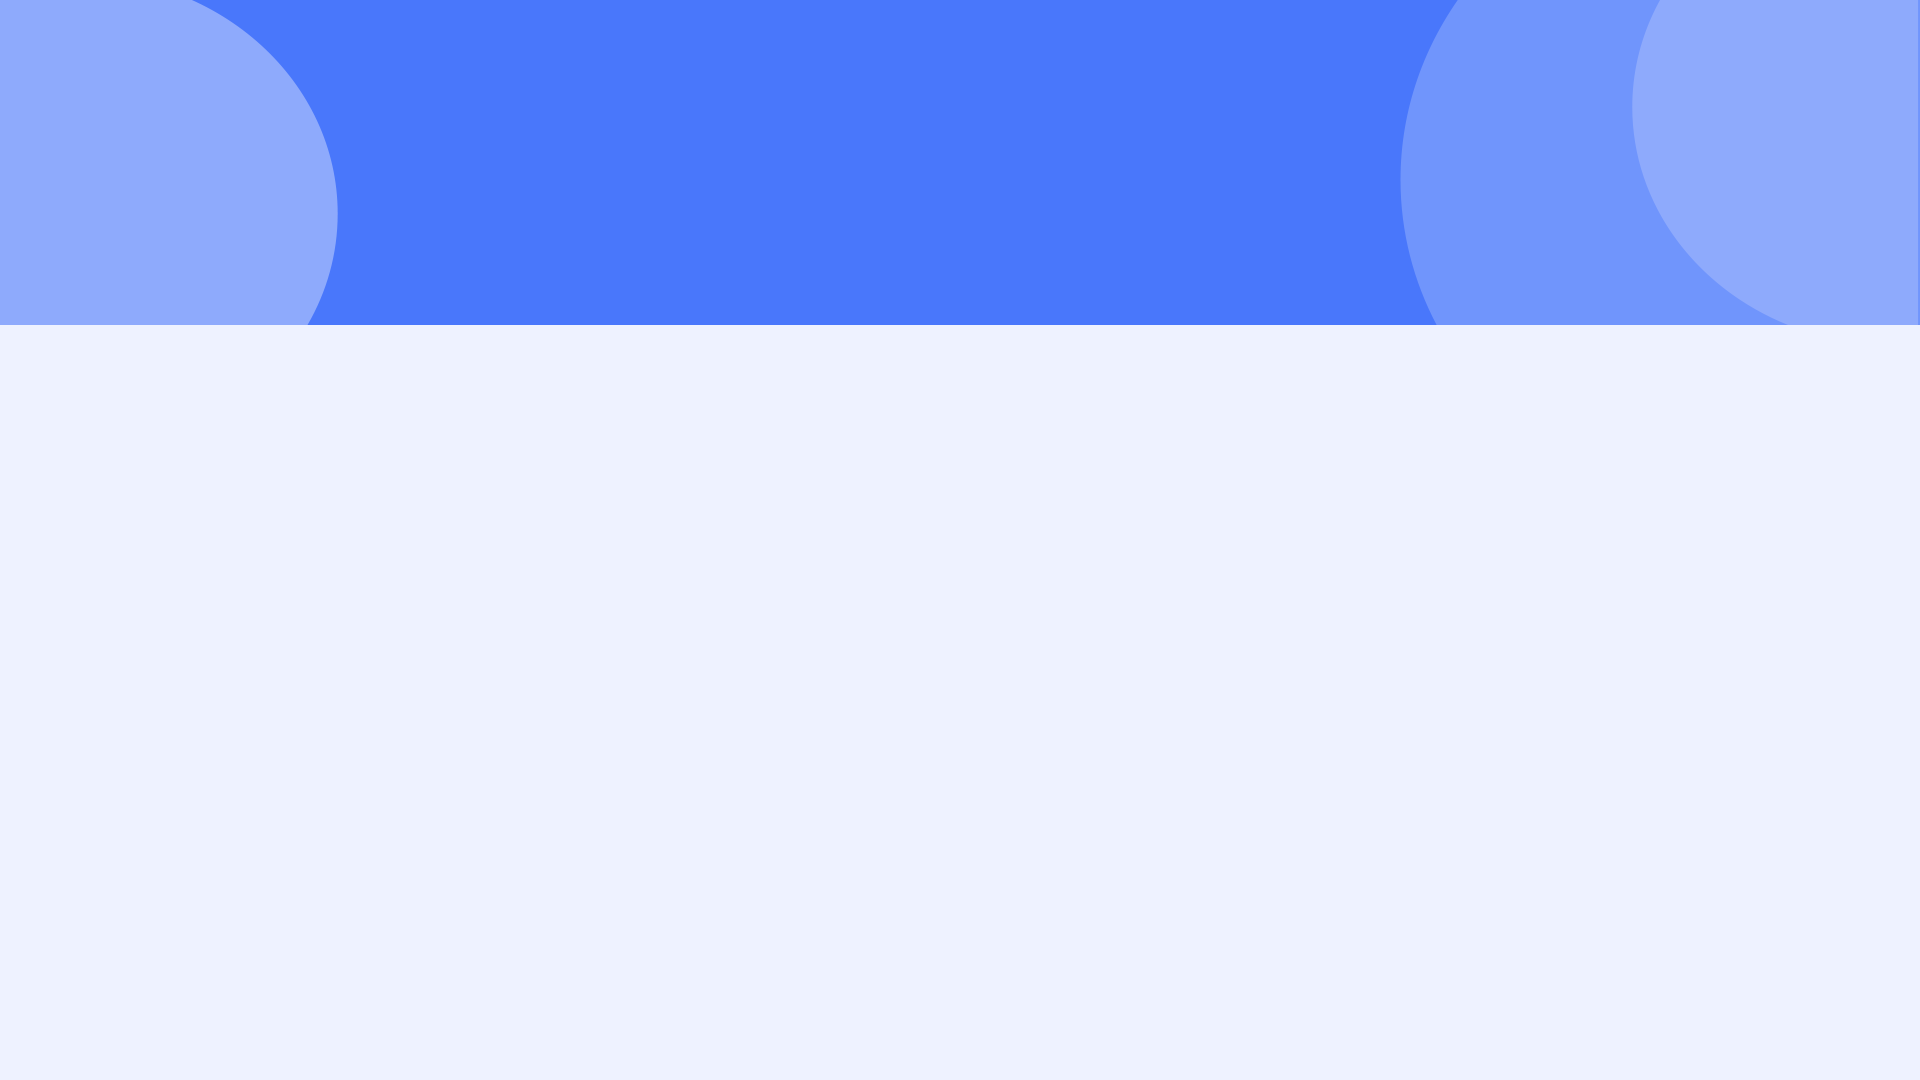
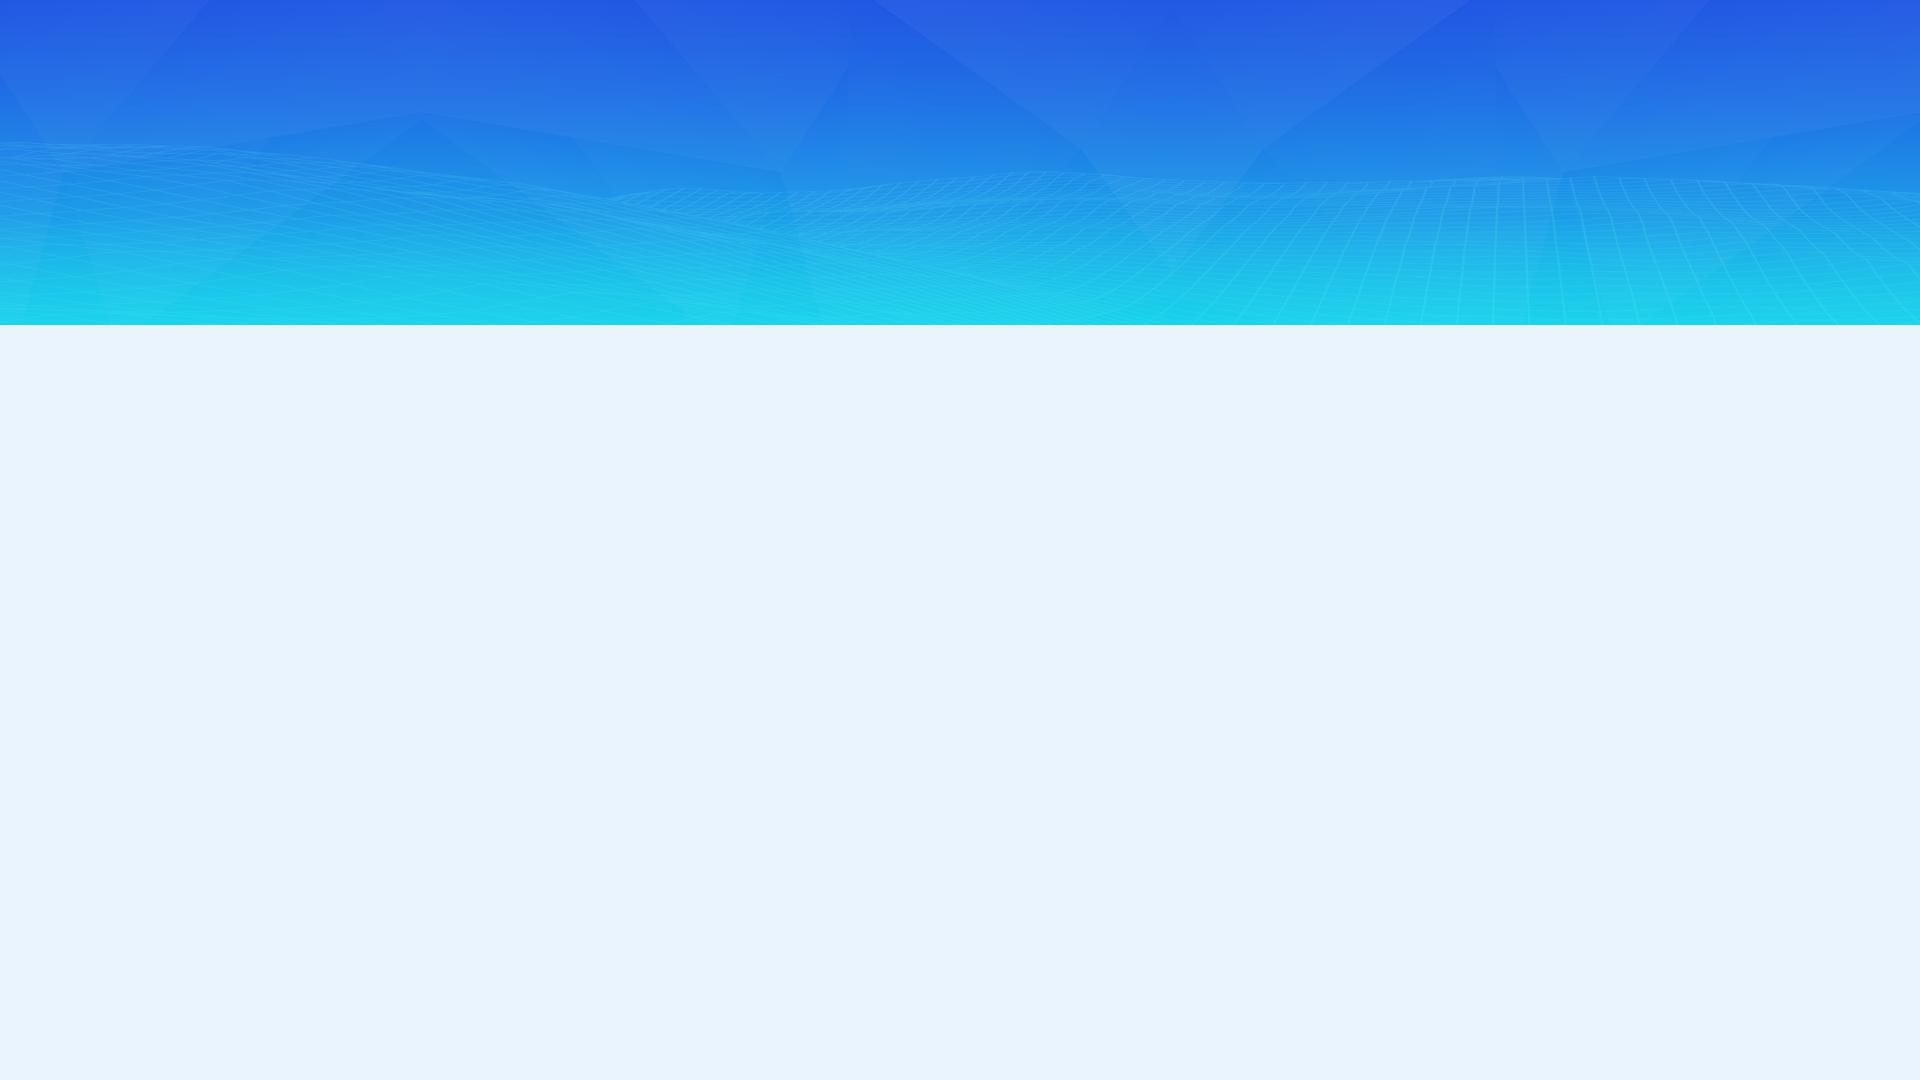
1111

diff --git a/src/views/login/Login.vue b/src/views/login/Login.vue
@@ -77,7 +77,7 @@
         position: relative;
         width:100%;
         height:100%;
-        background-image: url(../../assets/img/background.jpg);
+        background-image: url(../../assets/img/background.png);
         background-size: 100% 100%;
     }
     .ms-title{
@@ -95,7 +95,7 @@
         width:350px;
         margin:-190px 0 0 -175px;
         border-radius: 5px;
-        background: rgba(255,255,255, 0.1);
+        background: rgba(255,255,255, 0.3);
         overflow: hidden;
     }
     .ms-content{

diff --git a/public/globalConfig.js b/public/globalConfig.js
@@ -3,7 +3,7 @@
       "http://www.chineseo2o.com/saas/", // 正式服务器
       "http://172.16.159.119:9999/", //高级版测试服
       "http://www.binbind.com/", //高级版正式服(外)
-      "http://www.binbind.com/aplusvip/", //高级版正式服(外)
+      "http://47.110.143.47:9999/aplusvip/", //高级版正式服(外)
       "https://www.aplusvip.apluswiki.com/", //高级版服(测试)
       "http://172.16.159.110:8080/", // 测试服务器
         // 德华
